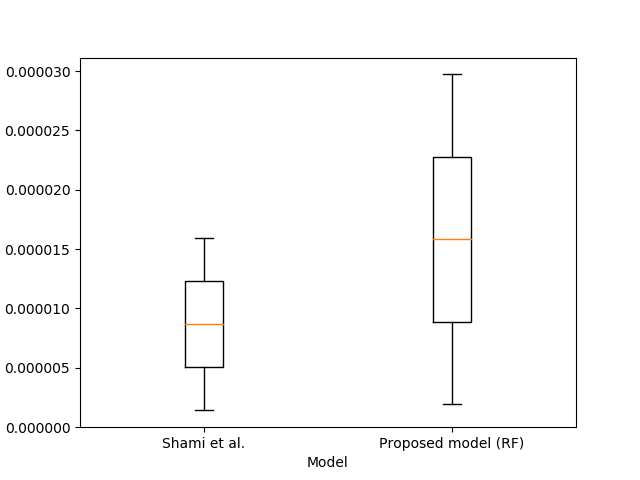
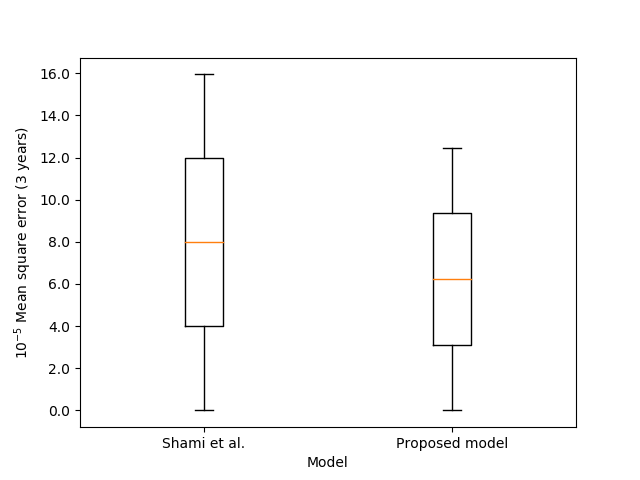
fix plots

diff --git a/prediction.py b/prediction.py
@@ -2,6 +2,7 @@
 import os
 import numpy as np
 import matplotlib.pyplot as plt
+from matplotlib.ticker import StrMethodFormatter
 from sklearn.ensemble import RandomForestRegressor
 from sklearn.linear_model import LinearRegression
 
@@ -23,6 +24,7 @@ from sklearn.neighbors import KNeighborsRegressor
 from sklearn.neural_network import MLPRegressor
 from sklearn.svm import SVR
 from sklearn.tree import DecisionTreeRegressor
+from plot_manager import PlotManager
 
 from main import Main
 
@@ -66,16 +68,20 @@ class Prediction:
         y_test = y[Prediction.MAX_SAMPLES_TO_TRAIN:]
         y_train = y.head(Prediction.MAX_SAMPLES_TO_TRAIN)
 
+        y_list = [list(y)]
+
         # fit model
         model = ARIMA(y_train)
         model = model.fit()
         # make prediction
         y_pred = model.predict(len(y_train) + 1, len(y_train) + len(y_test))
+
         mse_score_three_years = mean_squared_error(y_test, y_pred)
         mae_score_three_years = mean_absolute_error(y_test, y_pred)
         r2_three_years = r2_score(y_test, y_pred)
         print("ARIMA")
-        print("MSE = {:.8f}, MSE = {:.8f}, R2 = {:.8f}".format(mse_score_three_years, mae_score_three_years, r2_three_years))
+        print("MSE = {:.8f}, MSE = {:.8f}, R2 = {:.8f}".format(mse_score_three_years, mae_score_three_years,
+                                                               r2_three_years))
         """
         y_pred = [list(model.forecast(i + 1))[0] for i in range(len(y_test))]
         mse_score_three_years = mean_squared_error(list(y_test), y_pred)
@@ -90,12 +96,17 @@ class Prediction:
         print("AutoReg")
         model = AutoReg(y_train, lags=1)
         model_fit = model.fit()
+
+
+        y_list.append(model_fit.predict(1, len(y_train) + len(y_test)))
+
         # make prediction
         y_pred = model_fit.predict(len(y_train) + 1, len(y_train) + len(y_test))
         mse_score_three_years = mean_squared_error(y_test, y_pred)
         mae_score_three_years = mean_absolute_error(y_test, y_pred)
         r2_three_years = r2_score(y_test, y_pred)
-        print("MSE = {:.8f}, MSE = {:.8f}, R2 = {:.8f}".format(mse_score_three_years, mae_score_three_years, r2_three_years))
+        print("MSE = {:.8f}, MSE = {:.8f}, R2 = {:.8f}".format(mse_score_three_years, mae_score_three_years,
+                                                               r2_three_years))
         y_pred = [list(model_fit.predict(len(y_train) + i + 1, len(y_train) + i + 1))[0] for i in range(len(y_test))]
         mse_score_three_years = mean_squared_error(list(y_test), y_pred)
         r2_three_years = r2_score(y_test, y_pred)
@@ -103,7 +114,10 @@ class Prediction:
                                                                                    np.std(mse_score_three_years),
                                                                                    np.mean(r2_three_years),
                                                                                    np.std(r2_three_years)))
-
+        PlotManager.plot_compare(x=[Main.START_YEAR + i for i in range(Main.END_YEAR - Main.START_YEAR + 1)],
+                                 y_list=y_list,
+                                 models_names=["rcw_history", "rcw_Proposed model"],
+                                 train_size=Main.MAX_SAMPLES_TO_TRAIN)
     @staticmethod
     def run():
         try:
@@ -123,10 +137,10 @@ class Prediction:
 
             models = []
             models.append(('Shami et al.', LinearRegression()))
-            models.append(('Proposed model (RF)', RandomForestRegressor(max_depth=5,
-                                                                        min_samples_split=3,
-                                                                        ccp_alpha=0.01,
-                                                                        n_estimators=7)))  # Ensemble method - collection of many decision trees
+            models.append(('Proposed model', RandomForestRegressor(max_depth=5,
+                                                                   min_samples_split=3,
+                                                                   ccp_alpha=0.01,
+                                                                   n_estimators=100)))  # Ensemble method - collection of many decision trees
             # Evaluate each model in turn
             results = []
             names = []
@@ -138,10 +152,10 @@ class Prediction:
                 y_pred = model.predict(x_test)
                 mse_score = mean_squared_error(y_test, y_pred)
                 r2 = r2_score(y_test, y_pred)
-                results.append((mse_score, mse_score * (1 - r2)))
+                scale = 1000000 if "Shami" in name else 731754
+                results.append((mse_score, scale * mse_score * (1 - r2)))
                 names.append(name)
                 # print('%s: %f (%f)' % (name, cv_results.mean(), cv_results.std()))
-                """
                 try:
                     imp = model.feature_importances_
                     features = x_train.columns
@@ -150,16 +164,17 @@ class Prediction:
                     plt.barh(range(len(indices)), imp[indices], color='b', align='center')
                     plt.yticks(range(len(indices)), [features[i] for i in indices])
                     plt.xlabel('Relative Importance')
-                    plt.savefig(os.path.join(os.path.dirname(__file__), "plot", "prediction", "feature_importance_{}_for_df_{}.png".format(name, key)))
+                    plt.savefig(os.path.join(os.path.dirname(__file__), "plot", "prediction",
+                                             "feature_importance_{}_for_df_{}.png".format(name, key)))
                     plt.close()
                 except Exception as error:
                     pass
-                """
 
             # Compare Algorithms
             plt.boxplot(results, labels=names)
-            plt.ylabel("Mean square error (3 years)")
+            plt.ylabel("$10^{-5}$ Mean square error (3 years)")
             plt.xlabel("Model")
+            plt.gca().yaxis.set_major_formatter(StrMethodFormatter('{x:,.1f}'))  # 2 decimal places
             plt.savefig(os.path.join(os.path.dirname(__file__), "plot", "prediction",
                                      "algorithm_comparision_for_df_{}.png".format(key)))
             plt.close()
@@ -209,4 +224,5 @@ class Prediction:
 
 
 if __name__ == '__main__':
+    # Prediction.run()
     Prediction.run_signal()

diff --git a/plot_manager.py b/plot_manager.py
@@ -58,10 +58,11 @@ class PlotManager:
                  label="Forecasting Start")
         plt.xlabel("Year (t)")
         plt.ylabel("RCW value")
+        plt.xticks([1995 + 4 * i for i in range(round((2019 - 1995)/4)+1)], [1995 + 4 * i for i in range(round((2019 - 1995)/4)+1)])
         plt.ylim(min_min*0.95, max_max*1.05)
         plt.legend()
         plt.savefig(os.path.join(PlotManager.results_folder,
-                                 "models_graph_compare.png"))
+                                 "signal_models_graph_compare.png"))
         plt.close()
 
         min_min = 1
@@ -79,10 +80,11 @@ class PlotManager:
                 max_max = max(y[train_size+1:])
         plt.xlabel("Year (t)")
         plt.ylabel("RCW value")
+        plt.xticks([2017, 2018, 2019], [2017, 2018, 2019])
         plt.ylim(min_min*0.95, max_max*1.05)
         plt.legend()
         plt.savefig(os.path.join(PlotManager.results_folder,
-                                 "models_graph_compare_only_prediction.png"))
+                                 "signal_models_graph_compare_only_prediction.png"))
         plt.close()
 
     @staticmethod
